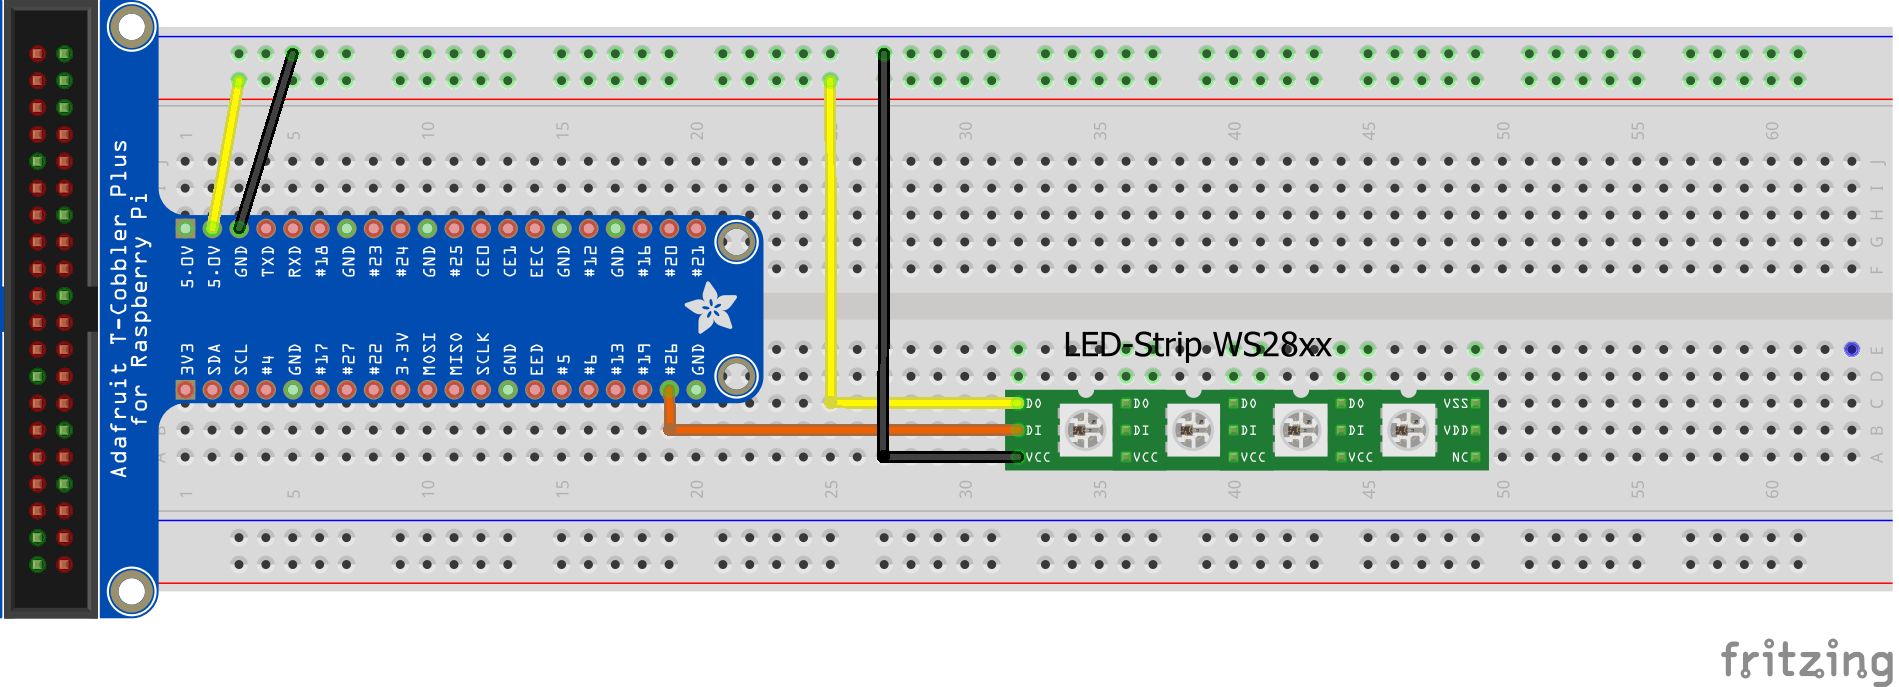
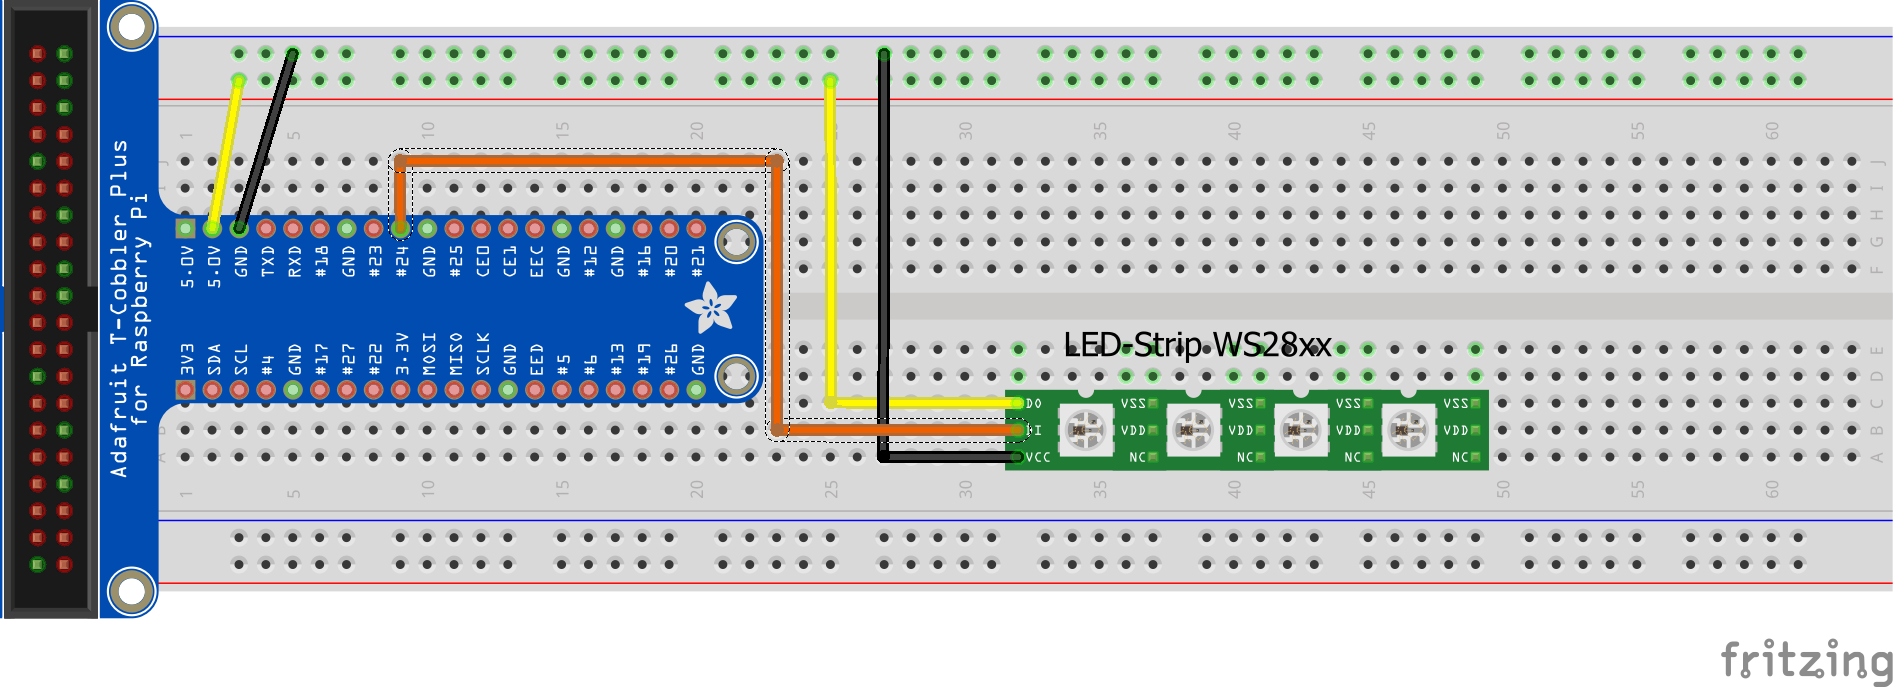
changed layout

diff --git a/content/documentation/device-examples/LEDStrip.md b/content/documentation/device-examples/LEDStrip.md
@@ -8,6 +8,11 @@ The [ledstrip](https://github.com/Pi4J/pi4j-example-components/tree/Dev-Arcade/s
 You can take a LED Strip with the WS28xx-chip set. Like for example this one: [LEDStrip](https://www.berrybase.de/sensoren-module/led/ws2812-13-neopixel/stripes/adafruit-neopixel-led-streifen-starter-pack-30-led/meter-schwarz-1m)
 The Template Class gives you the option to set the LED's of the strip to a desired RGB-Color.
 
+{{% notice note %}}
+Make sure to check if SPI is enabled in your RaspberryPI.
+Check the SPI Address. Default is GPIO 8 (#24).
+{{% /notice %}}
+
 ### Layout
 ![LEDStrip Layout](/assets/documentation/device-examples/Layout-LEDStrip.png)
 
@@ -15,8 +20,8 @@ The Template Class gives you the option to set the LED's of the strip to a desir
 A simple example on how to use the LEDStrip-Class from the [Hardware-Catalog](https://github.com/Pi4J/pi4j-example-components) :
 ```
 // Initialize the RGB
-int pixels = 8;
-final var ledstrip = new RGBLed(pi4j, PIN.D26, pixels, 127);
+int pixels = 10;
+final var ledstrip = new LEDStrip(pi4j, pixels, 127);
 
 //set them all off, so nothing is shining
 logger.info("Starting with setting all leds off");
